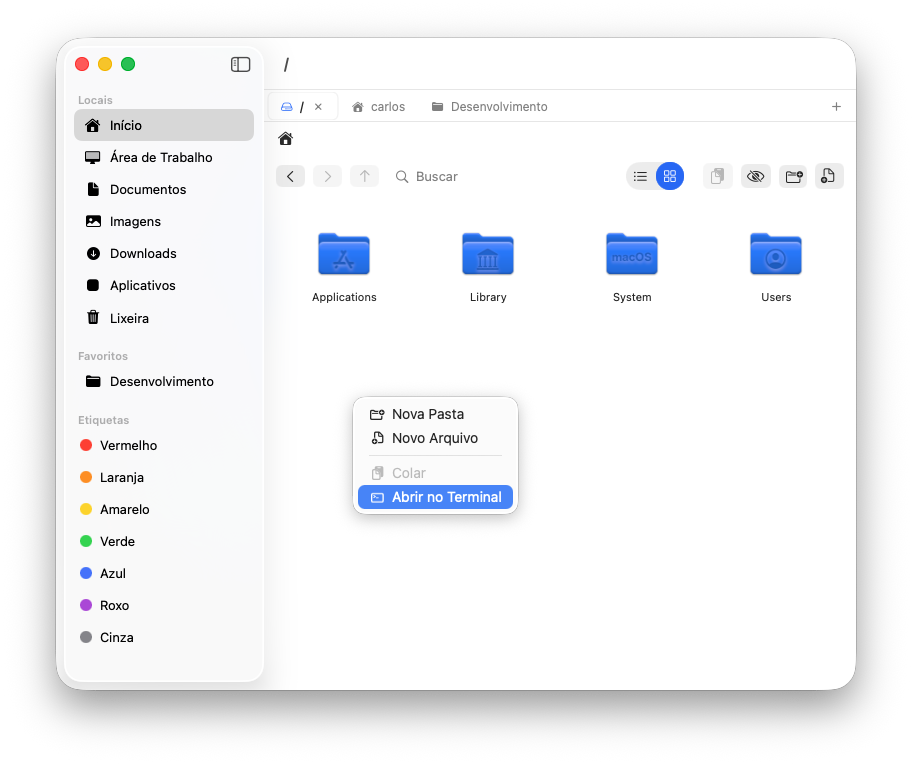
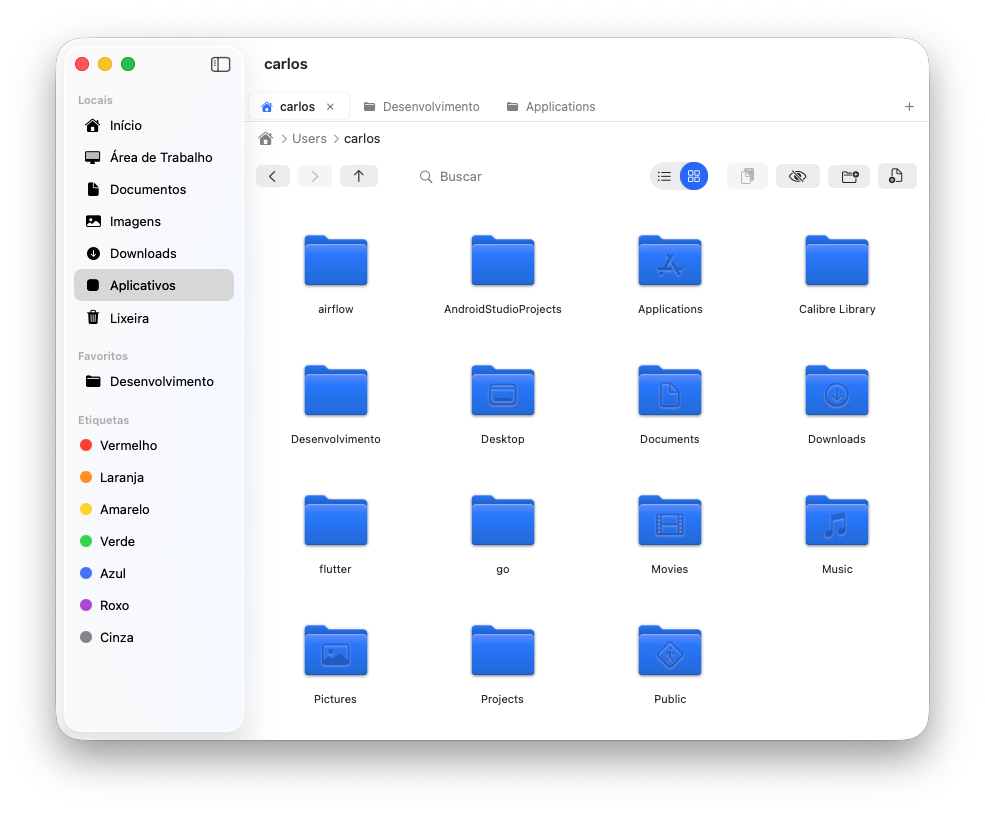
feat: add Spanish language support and update project version to 1.4

diff --git a/README.md b/README.md
@@ -17,7 +17,7 @@ Gerenciador de arquivos para macOS escrito em Swift com SwiftUI.
 - Etiquetas coloridas (compatível com Finder)
 - Mostrar/ocultar arquivos ocultos
 - Abrir no Terminal
-- Suporte a múltiplos idiomas (Português e Inglês)
+- Suporte a múltiplos idiomas (Português, Inglês e Espanhol)
 
 ## Requisitos
 
@@ -111,6 +111,7 @@ O Thunder oferece suporte nativo a:
 
 - **Português (Brasil)**
 - **English**
+- **Español**
 
 O idioma pode ser alterado nas **Preferências (Cmd+,)**, na aba **Geral**. Por padrão, o aplicativo tenta seguir o idioma definido no sistema macOS.
 